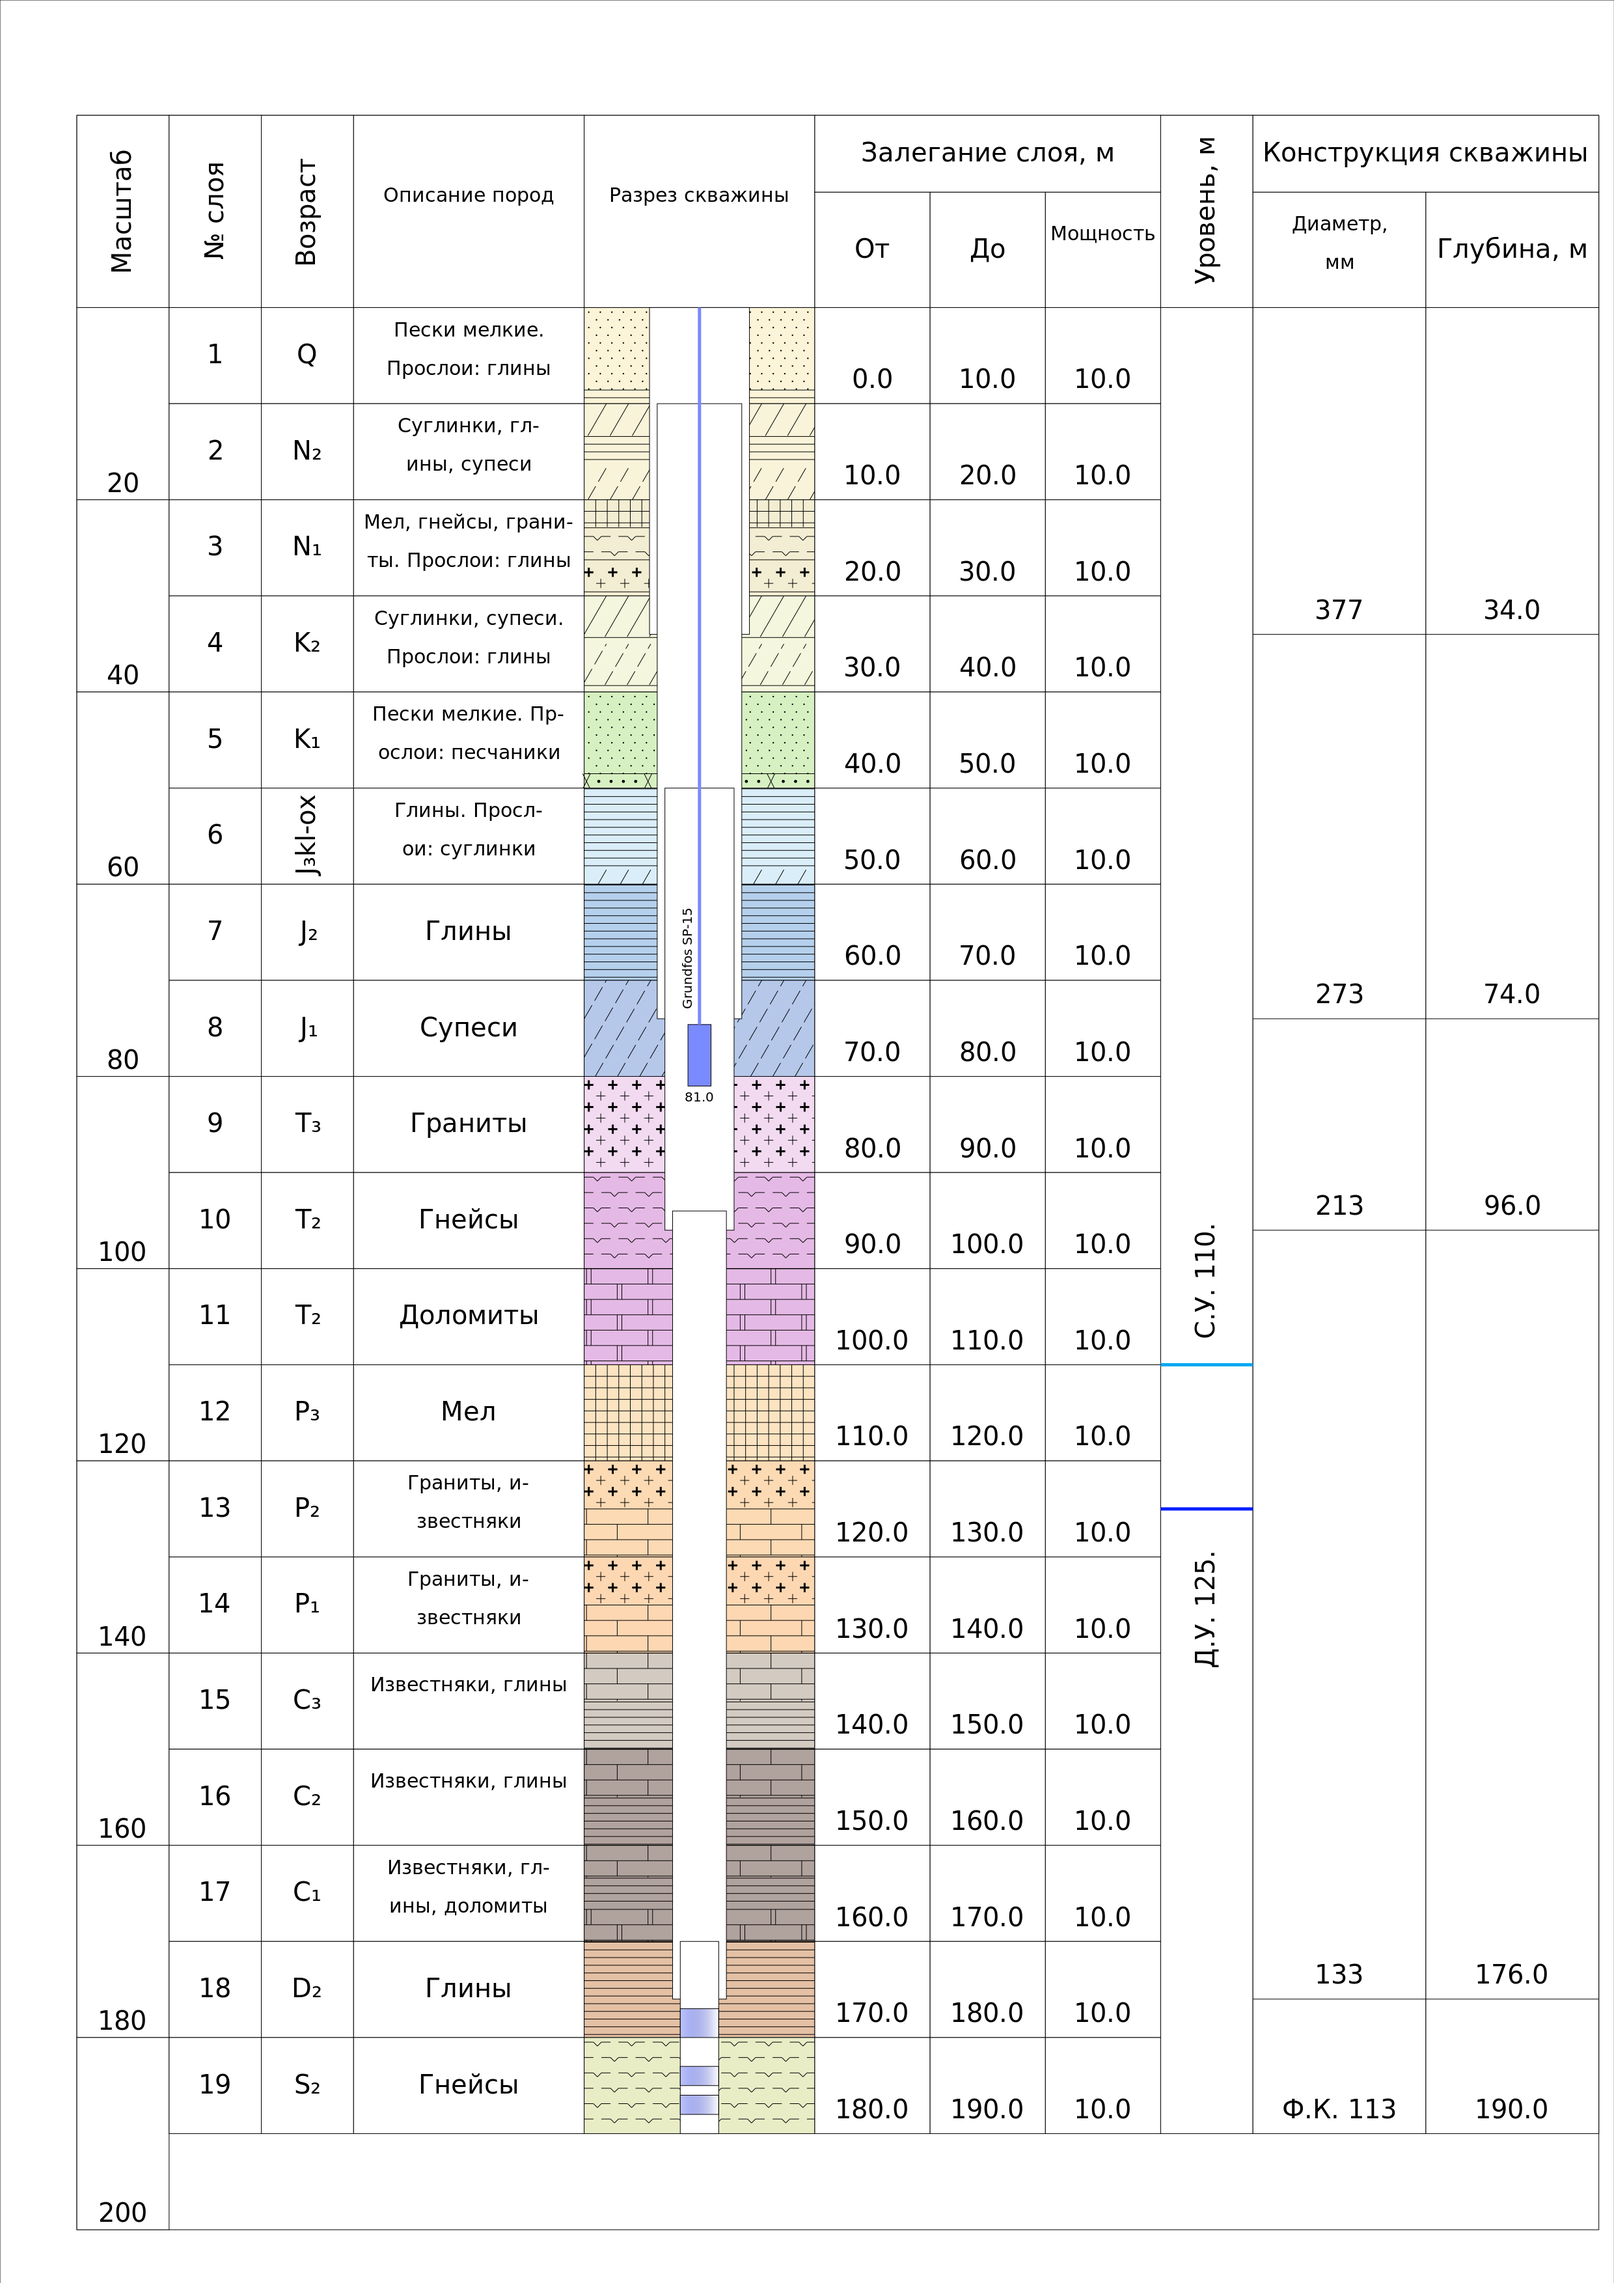
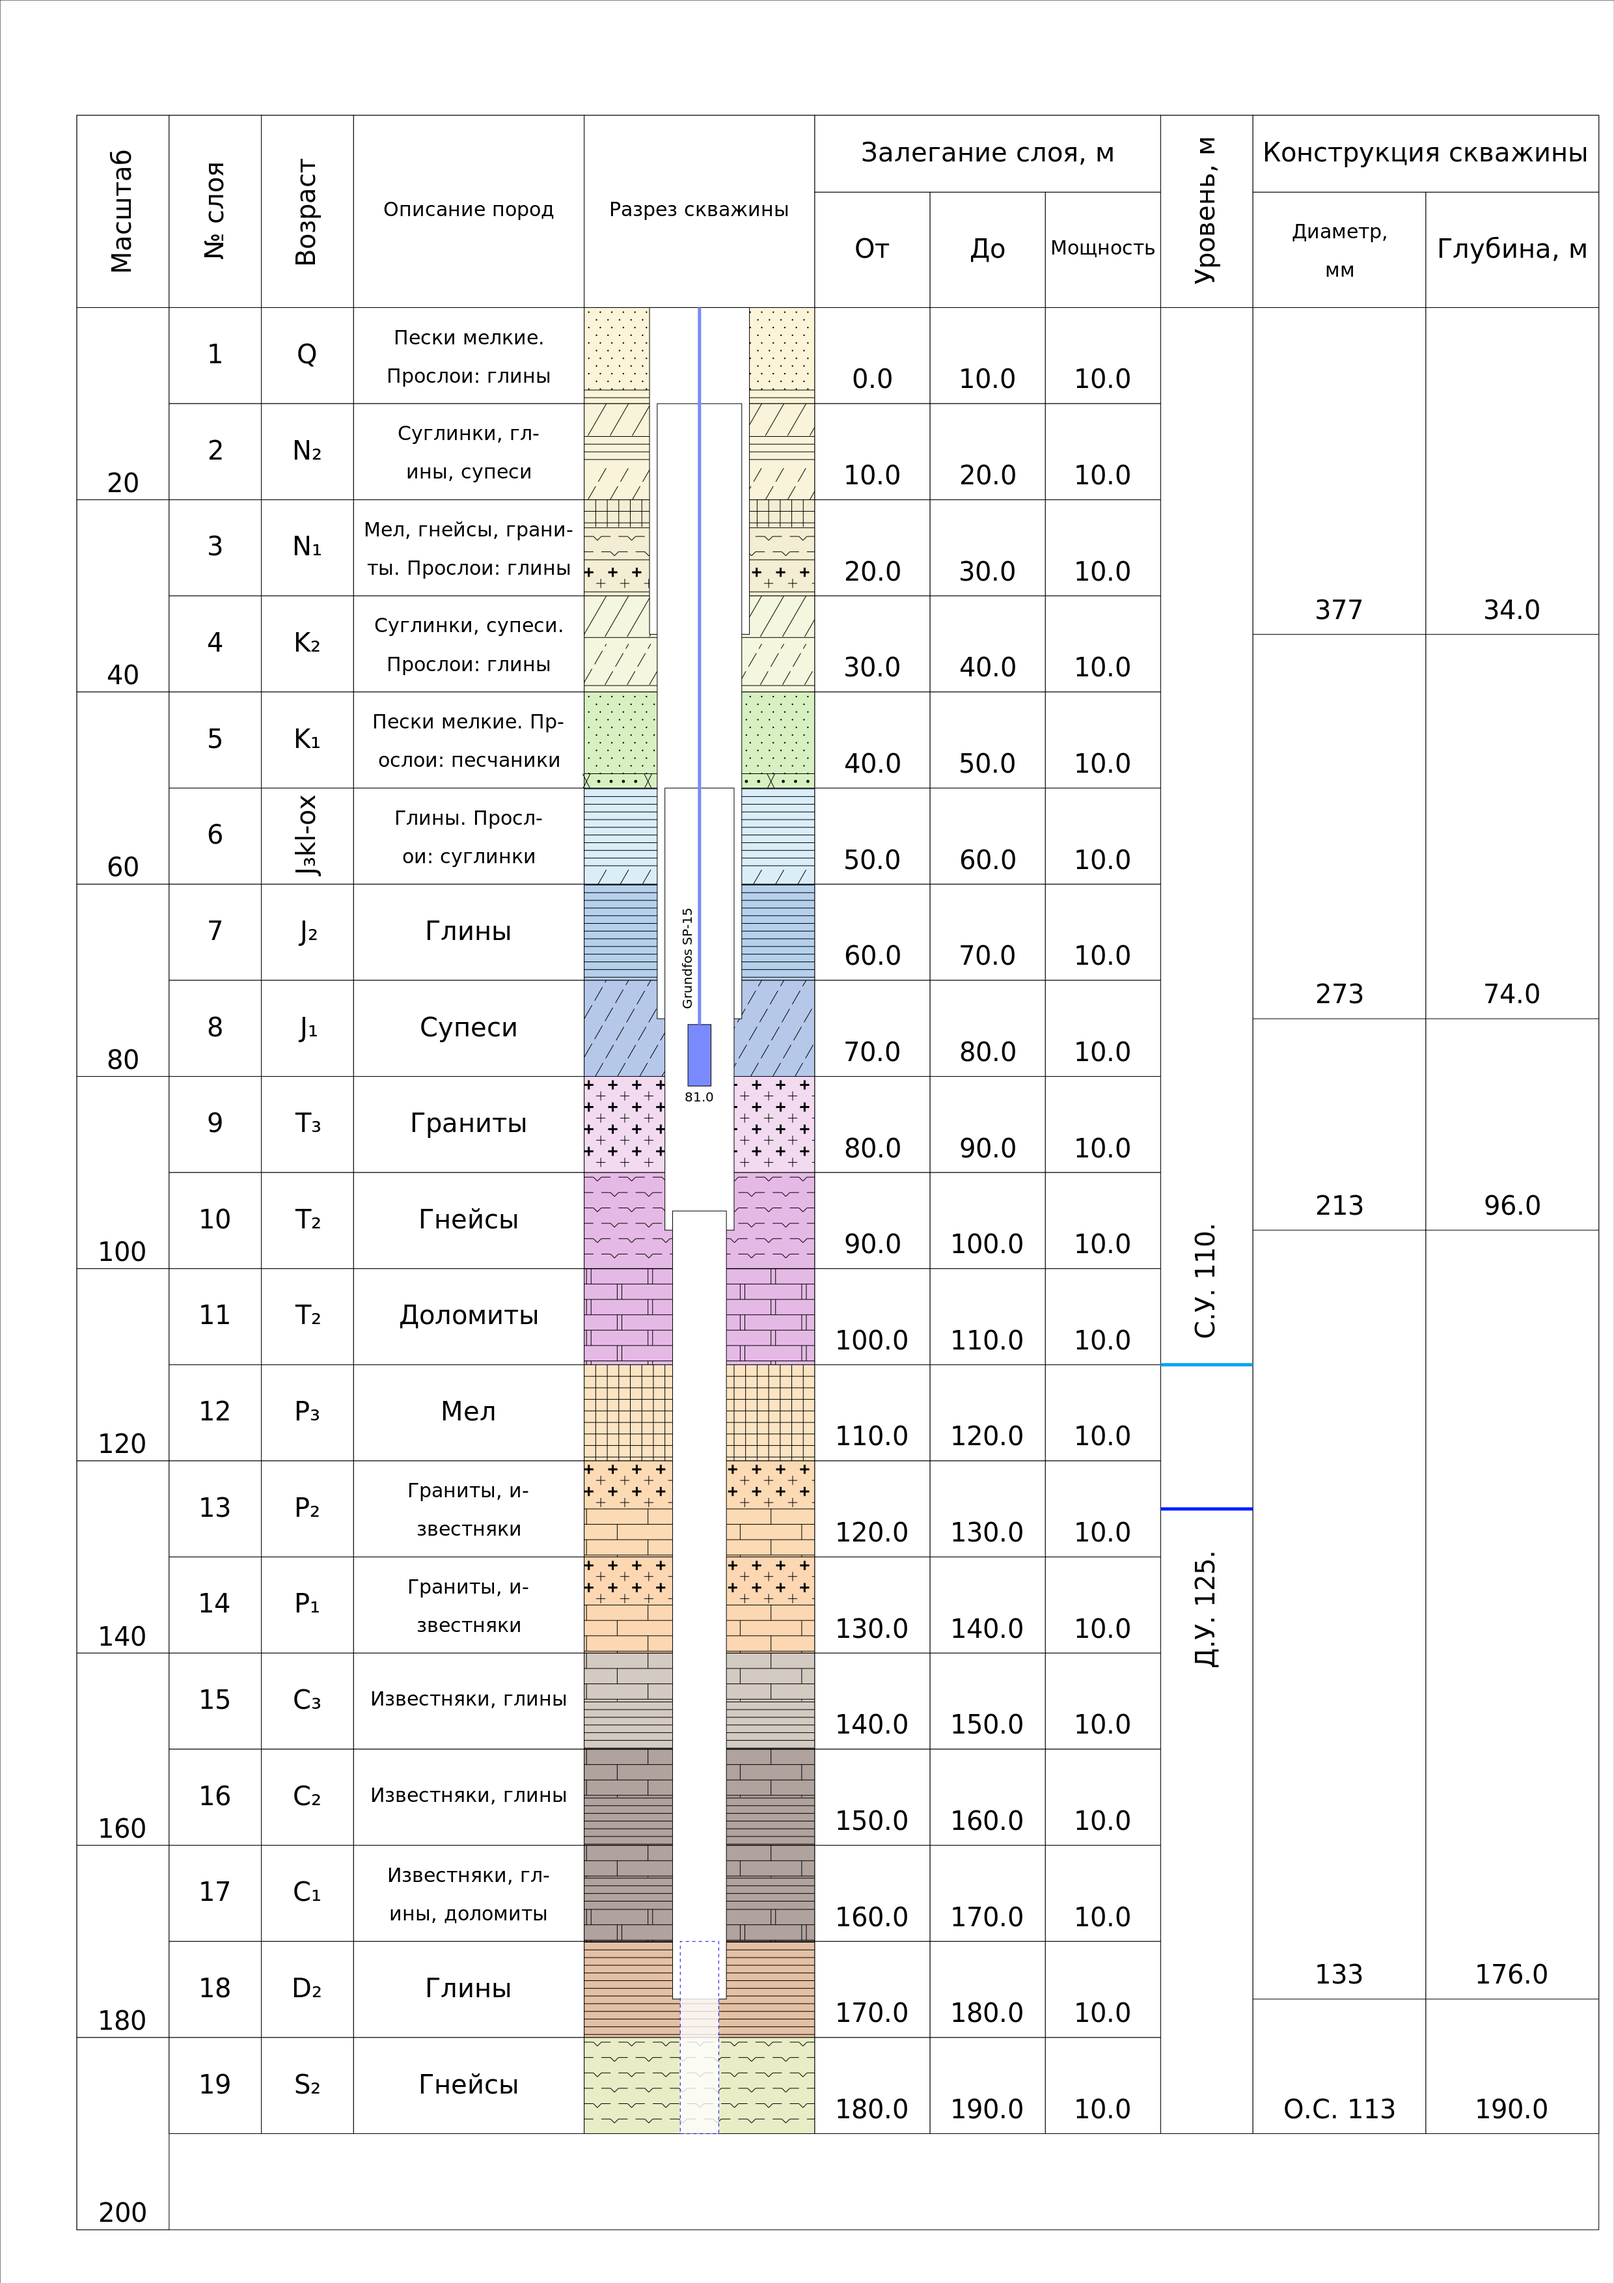
add open wellbore and some text fix

diff --git a/drawing/main.py b/drawing/main.py
@@ -171,13 +171,18 @@ def rectangle(d, x, y, x1, y1, text, direction):
         number_str = math.ceil(abs((len(text) * 1.6) / x1))
         if number_str * 5 >= 0.8 * y1:
             text_size = 30
+            if number_str == 1:
+                central_koef = 6.2
+            else:
+                central_koef = 3.5
         else:
             text_size = 40
+            central_koef = 2.5
         i = 0
         # Первоначальное положение строки
         # строится в зависимости от расстояния межу строками
         # и высотой шрифта
-        step = y1 / 2 + (5 - 2.5) / 2 * number_str
+        step = y1 / 2 + (5 - central_koef) / 2 * number_str
         text_start_step = 0
         text_step = round(len(text) / abs(number_str))
         text_end_step = text_step
@@ -413,18 +418,38 @@ def well(d, well_dt):
                     "f",
                 )
                 i_f += 1
+        # построение открытого ствола
         elif column["type"] == "О.С.":
-            # надо добавить построение открытого ствола
-            rectangle(
-                d,
-                x_start,
-                y_start,
-                d_start,
-                (column["from"] - column["till"]) * scale_m,
-                "white",
-                "f",
+            r = draw.Rectangle(
+                x_start * koef,
+                y_start * koef,
+                d_start * koef,
+                (column["from"] - column["till"]) * scale_m * koef,
+                fill="white",
+                fill_opacity=0.8,
+                stroke="blue",
+                stroke_dasharray="5, 5",
             )
-            pass
+            d.append(r)
+            p = draw.Lines(
+                163 * koef,
+                (257 - column["till"] * scale_m + 2) * koef,
+                185.5 * koef,
+                (257 - column["till"] * scale_m + 2) * koef,
+                close=False,
+                stroke="black",
+            )
+            text = "О.С. " + str(column["D"])
+            d.append(draw.Text(text, 40, path=p, text_anchor="middle"))
+            p = draw.Lines(
+                185.5 * koef,
+                (257 - column["till"] * scale_m + 2) * koef,
+                208 * koef,
+                (257 - column["till"] * scale_m + 2) * koef,
+                close=False,
+                stroke="white",
+            )
+            d.append(draw.Text(str(column["till"]), 40, path=p, text_anchor="middle"))
         elif column["type"] == "обсадная":
             rectangle(
                 d,

diff --git a/drawing/fixtures.py b/drawing/fixtures.py
@@ -276,7 +276,7 @@ well_data_3 = {
                 "D": 113,
                 "from": 170.0,
                 "till": 190.0,
-                "type": "фильтровая",
+                "type": "О.С.",
                 "filter": {
                     1: {"id": 1, "from": 177.0, "till": 180.0},
                     2: {"id": 2, "from": 183.0, "till": 185.0},
